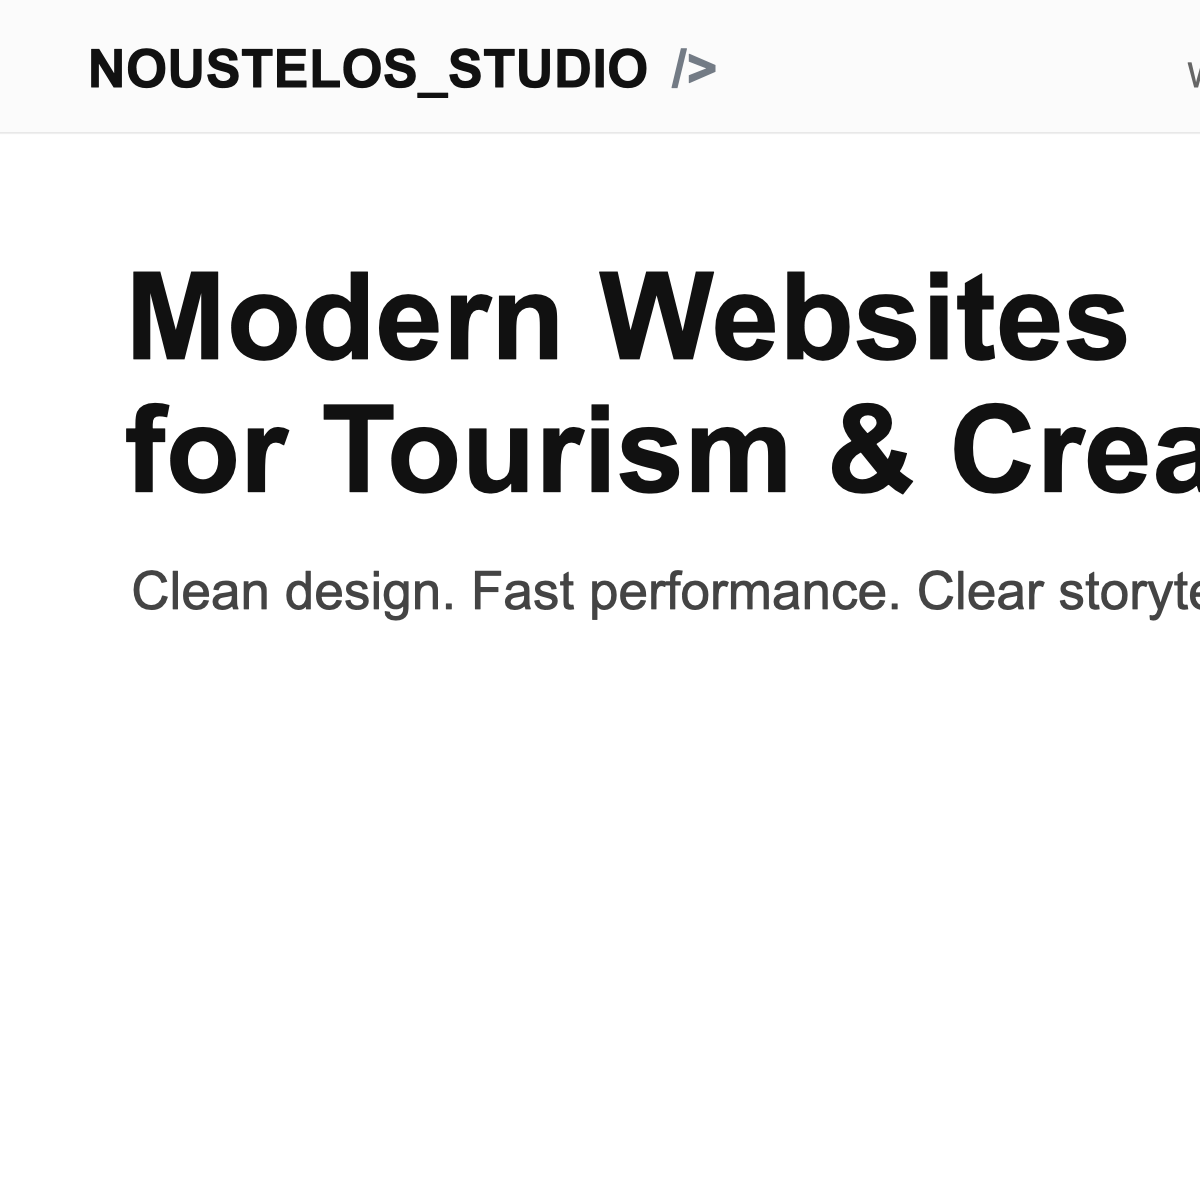
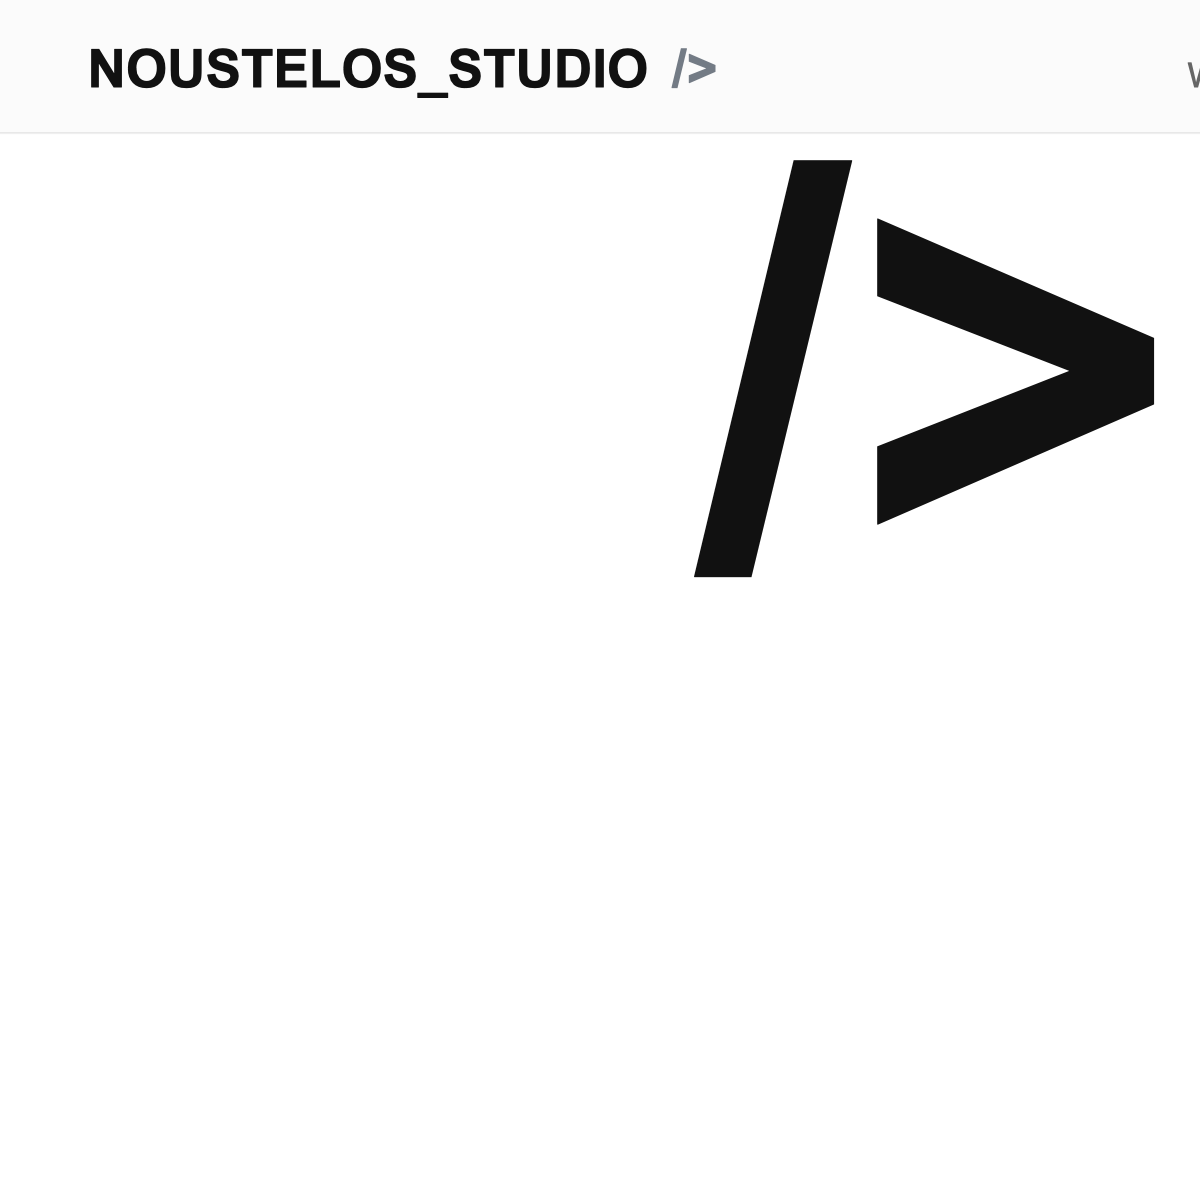
Redesign social thumbnail with centered symbol mark

diff --git a/index.html b/index.html
@@ -25,7 +25,7 @@
   <meta property="og:image:type" content="image/png" />
   <meta property="og:image:width" content="1200" />
   <meta property="og:image:height" content="630" />
-  <meta property="og:image:alt" content="Noustelos Studio hero section and header preview" />
+  <meta property="og:image:alt" content="Noustelos Studio header with a large centered symbol" />
   <meta property="og:locale" content="en_US" />
   <meta property="og:locale:alternate" content="el_GR" />
 
@@ -34,7 +34,7 @@
   <meta name="twitter:title" content="Noustelos Studio Santorini | Web Design for Tourism &amp; Creative Projects" />
   <meta name="twitter:description" content="Noustelos Studio in Santorini creates modern websites for tourism brands, local businesses and creative projects." />
   <meta name="twitter:image" content="https://noustelos.gr/assets/og/hero-share.png" />
-  <meta name="twitter:image:alt" content="Noustelos Studio hero section and header preview" />
+  <meta name="twitter:image:alt" content="Noustelos Studio header with a large centered symbol" />
   <title data-i18n="meta.title">Noustelos Studio Santorini | Web Design for Tourism &amp; Creative Projects</title>
 
   <!-- Typography: Space Grotesk for headings, Inter for body text -->
